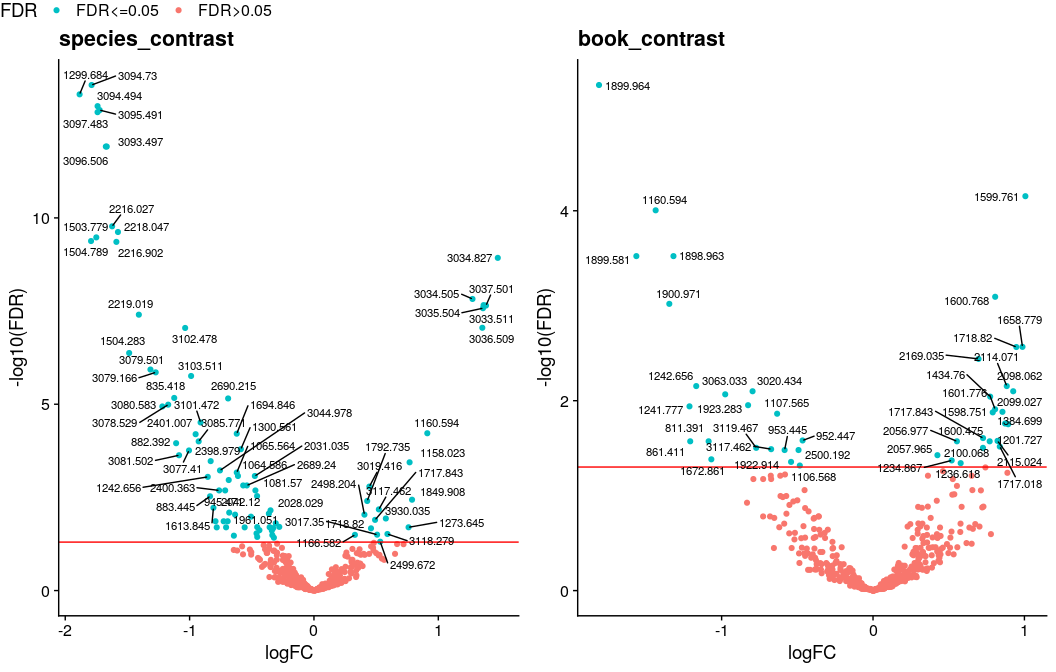
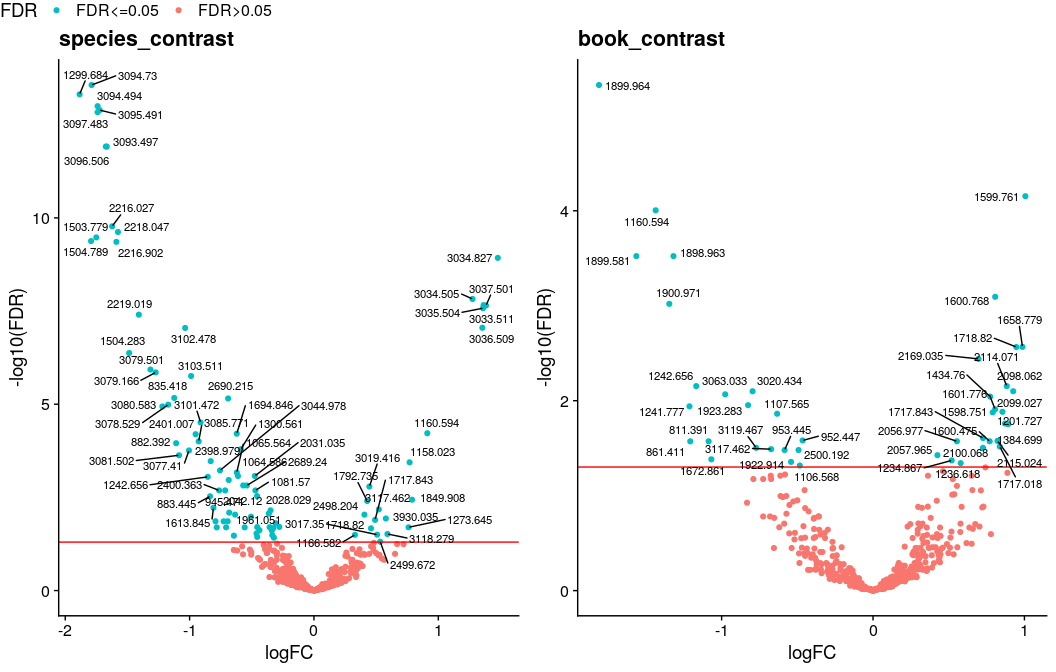
max overlaps in f-test q-value plot

diff --git a/data_analysis.md b/data_analysis.md
@@ -269,13 +269,13 @@ pl = ggplot(sv_qval) +
     geom_point(aes(x=mass, y=-log10(q_val)), size=2, alpha=0.7) +
     geom_hline(yintercept=-log10(0.05), color='red') +
     geom_text_repel(aes(x=mass, y=-log10(q_val), label=ifelse(q_val<0.05, mass, '')),
-                    size=3, max.overlaps = ) +
+                    size=3, max.overlaps = 20) +
     theme_cowplot() +
     theme(axis.title=element_text(size=12), axis.text=element_text(size=10))
 pl
 ```
 
-    ## Warning: ggrepel: 30 unlabeled data points (too many overlaps). Consider
+    ## Warning: ggrepel: 1 unlabeled data points (too many overlaps). Consider
     ## increasing max.overlaps
 
 ![](data_analysis_files/figure-gfm/unnamed-chunk-4-1.png)<!-- -->
@@ -285,7 +285,7 @@ ggsave('f_stats_pval.png', pl, path = results_folder, bg='white',
        width = 9, height = 6, dpi=100)
 ```
 
-    ## Warning: ggrepel: 29 unlabeled data points (too many overlaps). Consider
+    ## Warning: ggrepel: 7 unlabeled data points (too many overlaps). Consider
     ## increasing max.overlaps
 
 ``` r
@@ -293,7 +293,7 @@ ggsave('f_stats_pval.svg', pl, path = results_folder, bg='white',
        width = 9, height = 6, dpi=100)
 ```
 
-    ## Warning: ggrepel: 29 unlabeled data points (too many overlaps). Consider
+    ## Warning: ggrepel: 7 unlabeled data points (too many overlaps). Consider
     ## increasing max.overlaps
 
 ## Data visualization and clustering
